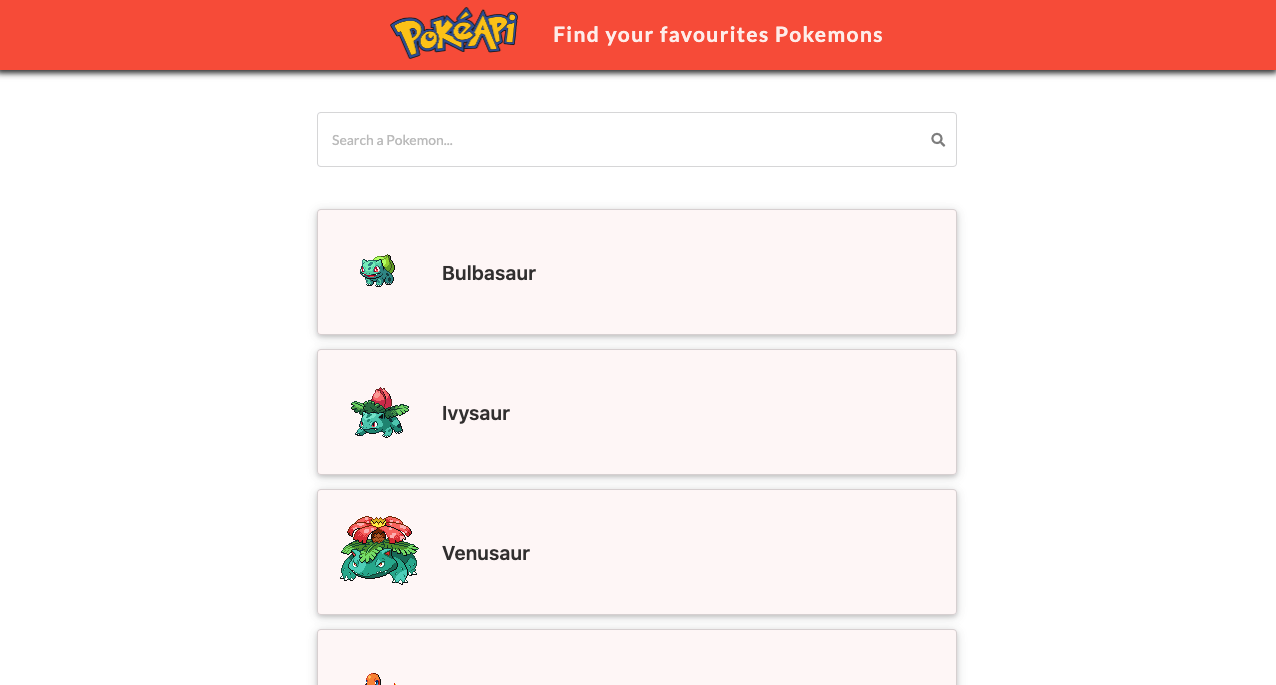
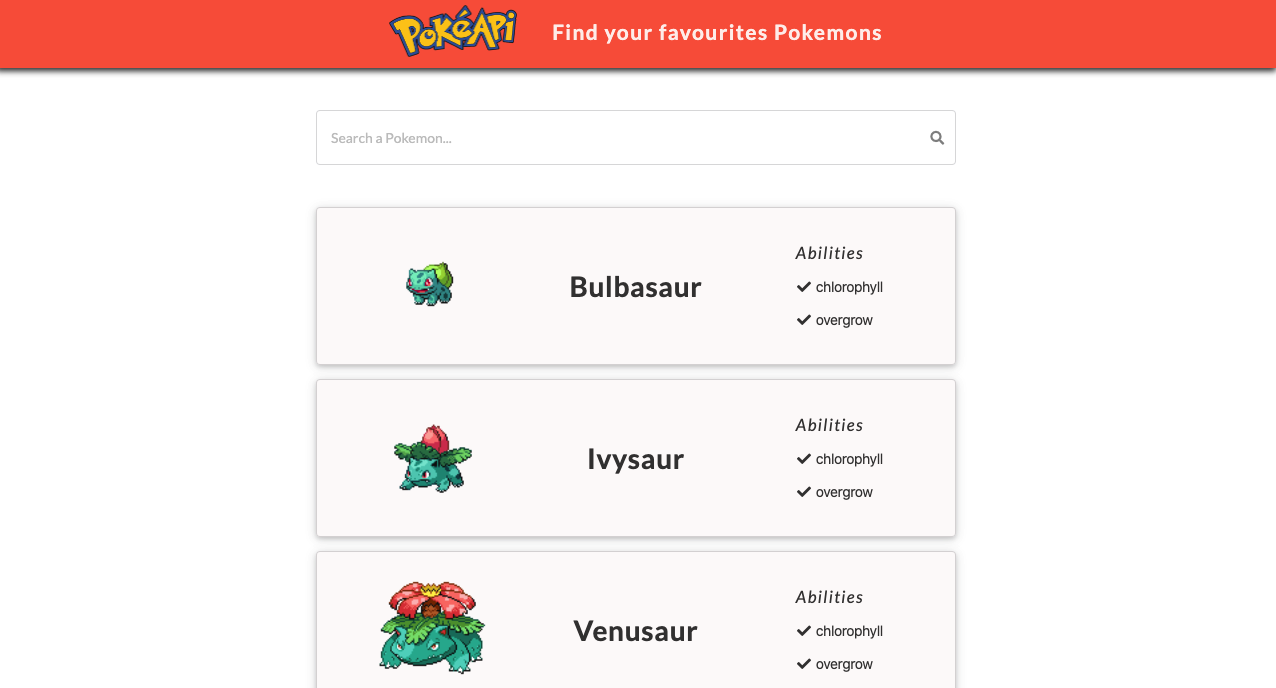
Done

diff --git a/src/components/PokemonList/PokemonList.js b/src/components/PokemonList/PokemonList.js
@@ -1,6 +1,6 @@
 import React from "react";
 import Loader from "../Loader/Loader";
-import { Segment } from "semantic-ui-react";
+import { Segment, Icon } from "semantic-ui-react";
 
 function PokemonList({
   getPokemon,
@@ -17,11 +17,39 @@ function PokemonList({
           getPokemon.map(pokemon => {
             return (
               <Segment raised className="segment" key={pokemon.id}>
-                <div className="d-flex align-items-center">
-                  <img src={pokemon.sprites.front_default} alt="avatar" />
-                  <div className="ml-3 pokemon-name">
-                    {pokemon.name.charAt(0).toUpperCase() +
-                      pokemon.name.slice(1)}
+            
+
+                <div className="container">
+                  <div className="row align-items-center">
+                    <div className="col-sm d-flex justify-content-center">
+                      <img
+                        src={pokemon.sprites.front_default}
+                        alt="avatar"
+                        className="poke-img"
+                      />
+                    </div>
+                    <div className="col-sm d-flex justify-content-center">
+                      <h2 className="pokemon-name">
+                        {pokemon.name.charAt(0).toUpperCase() +
+                          pokemon.name.slice(1)}
+                      </h2>
+                    </div>
+
+                    <div className="col-sm abilities-container d-flex justify-content-center">
+                      <div className="abilities d-flex flex-column align-items-start">
+                        <h3 className="mb-3">Abilities</h3>
+                        <>
+                          {pokemon.abilities.map((e, idx) => {
+                            return (
+                              <p key={idx}>
+                                <Icon name="check" />
+                                {e.ability.name}
+                              </p>
+                            );
+                          })}
+                        </>
+                      </div>
+                    </div>
                   </div>
                 </div>
               </Segment>
@@ -31,11 +59,39 @@ function PokemonList({
           filteredPokemons.map(pokemon => {
             return (
               <Segment raised className="segment" key={pokemon.id}>
-                <div className="d-flex align-items-center">
-                  <img src={pokemon.sprites.front_default} alt="avatar" />
-                  <div className="ml-3 pokemon-name">
-                    {pokemon.name.charAt(0).toUpperCase() +
-                      pokemon.name.slice(1)}
+            
+
+                <div className="container">
+                  <div className="row align-items-center">
+                    <div className="col-sm d-flex justify-content-center">
+                      <img
+                        src={pokemon.sprites.front_default}
+                        alt="avatar"
+                        className="poke-img"
+                      />
+                    </div>
+                    <div className="col-sm d-flex justify-content-center">
+                      <h2 className="pokemon-name">
+                        {pokemon.name.charAt(0).toUpperCase() +
+                          pokemon.name.slice(1)}
+                      </h2>
+                    </div>
+
+                    <div className="col-sm abilities-container d-flex justify-content-center">
+                      <div className="abilities d-flex flex-column align-items-start">
+                        <h3 className="mb-3">Abilities</h3>
+                        <>
+                          {pokemon.abilities.map((e, idx) => {
+                            return (
+                              <p key={idx}> 
+                                <Icon name="check" />
+                                {e.ability.name}
+                              </p>
+                            );
+                          })}
+                        </>
+                      </div>
+                    </div>
                   </div>
                 </div>
               </Segment>

diff --git a/src/App.css b/src/App.css
@@ -7,6 +7,10 @@ html {
   font-size: 10px;
 }
 
+img {
+  width: 100%;
+}
+
 /* NAVBAR */
 
 .mynavbar {
@@ -42,11 +46,35 @@ html {
 
 .segment {
   width: 50vw;
-  background-color: rgba(255, 246, 246, 0.75) !important;
+  background-color: rgba(252, 248, 248, 0.75) !important;
 }
 
 .sad-pokemon{
   width: 10vw;
+}
+
+.poke-img {
+  width: 10vw;
+}
+
+.pokemon-name{
+  font-size: 2rem;
+  letter-spacing: 0.05rem;
+  font-weight: 600;
+  color: rgba(0, 0, 0, 0.75);
+}
+
+.abilities p{
+  color: rgba(0, 0, 0, 0.75);
+
+}
+
+.abilities h3{
+  letter-spacing: 0.1rem;
+  font-size: 1.2rem;
+  font-style: italic;
+  color: rgba(0, 0, 0, 0.75);
+
 }
 
 /* LOADER */
@@ -58,13 +86,6 @@ html {
 .loading-text {
   text-align: center;
   font-size: 1.6rem;
-}
-
-.pokemon-name{
-  font-size: 1.4rem;
-  letter-spacing: 0.05rem;
-  font-weight: 600;
-  color: rgba(0,0,0,0.75);
 }
 
 /* AnimationFrames */
@@ -120,7 +141,12 @@ html {
 }
 
 .segment img {
-  width: 30vw;
+  width: 40vw;
+}
+
+
+.abilities-container{
+  margin-top: 20px;
 }
 
 
@@ -140,7 +166,20 @@ html {
   width: 30vw;
 } 
 
+.icon {
+  width: 75vw;
+  height: 5vh;
+}
+
 .segment {
   width: 75vw;
+}
+
+.poke-img {
+  width: 20vw;
+}
+
+.pokemon-name{
+  font-size: 2rem;
 }
 }
